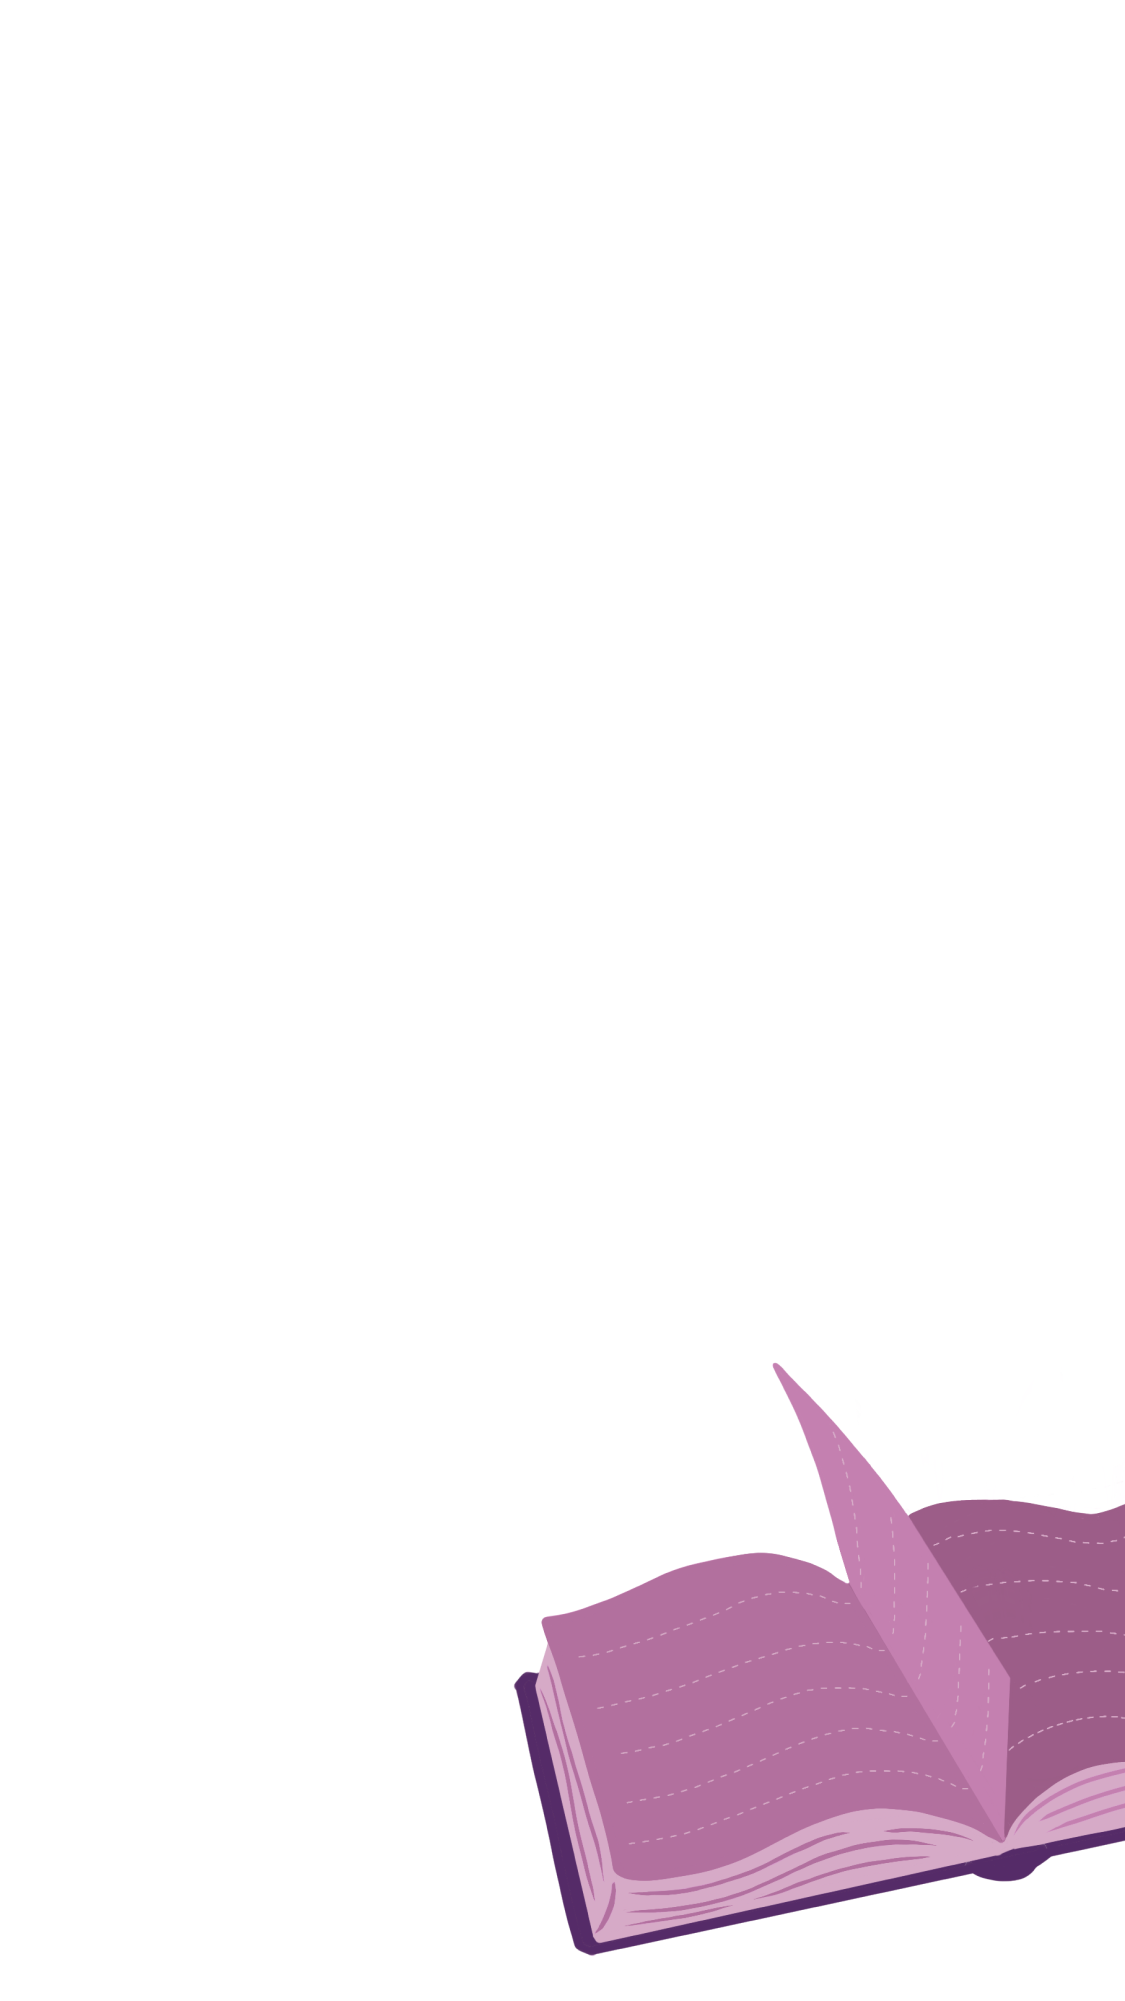
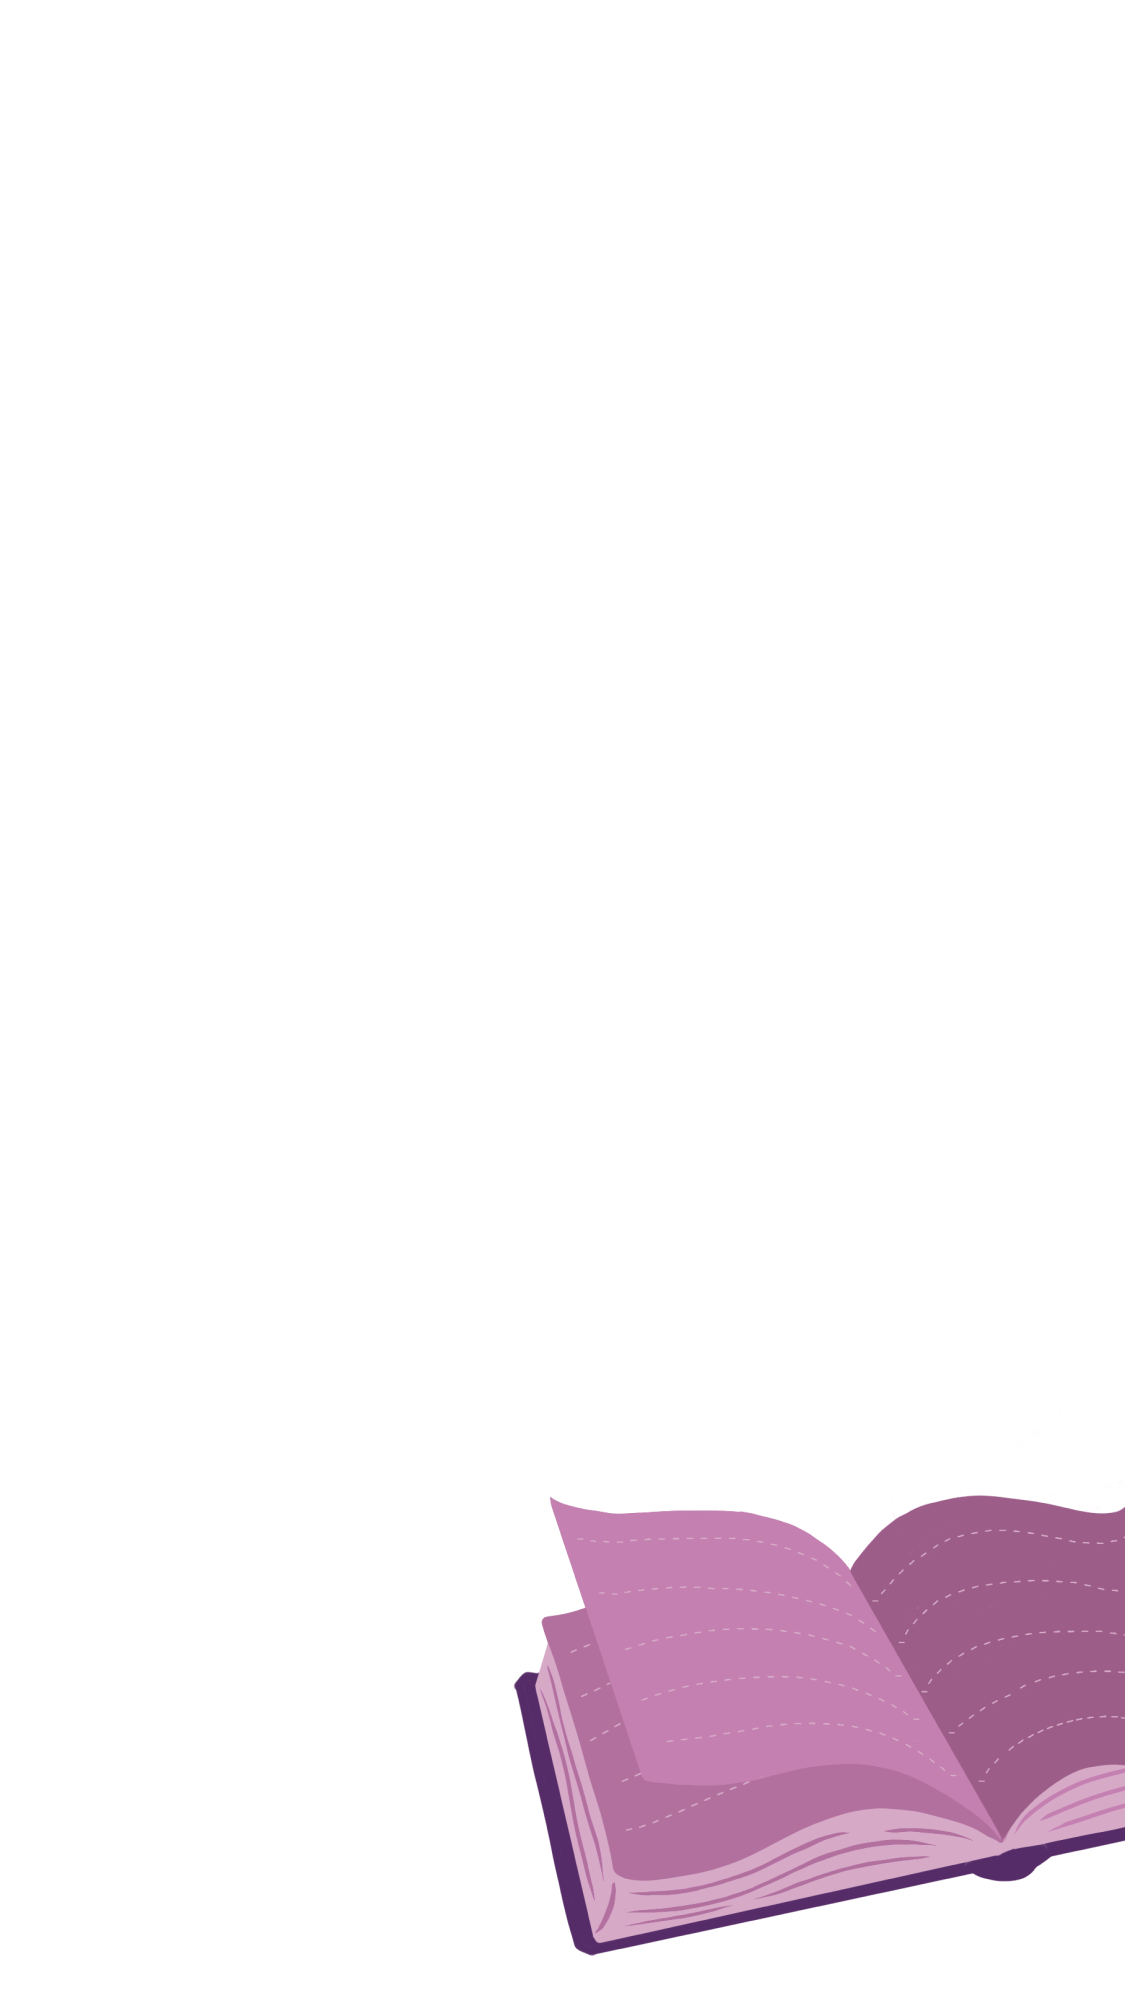
:bento: update book flip to 4 frames

Changed region(s): [[0.4978, 0.6817, 0.9022, 0.9295]]

diff --git a/src/components/AnimationScene/Resources.ts b/src/components/AnimationScene/Resources.ts
@@ -26,7 +26,7 @@ export const resources = <const>{
     leaf: createSpriteResource("leaf", 4),
     book: createSpriteResource("book", 3),
     "book-open": createSpriteResource("book-open", 3),
-    "book-flip": createSpriteResource("book-flip", 5),
+    "book-flip": createSpriteResource("book-flip", 4),
     "book-close": createSpriteResource("book-close", 4),
     "book-first": createSpriteResource("book-first", 4),
     "post-pp": createSpriteResource("post-pp", 2),
